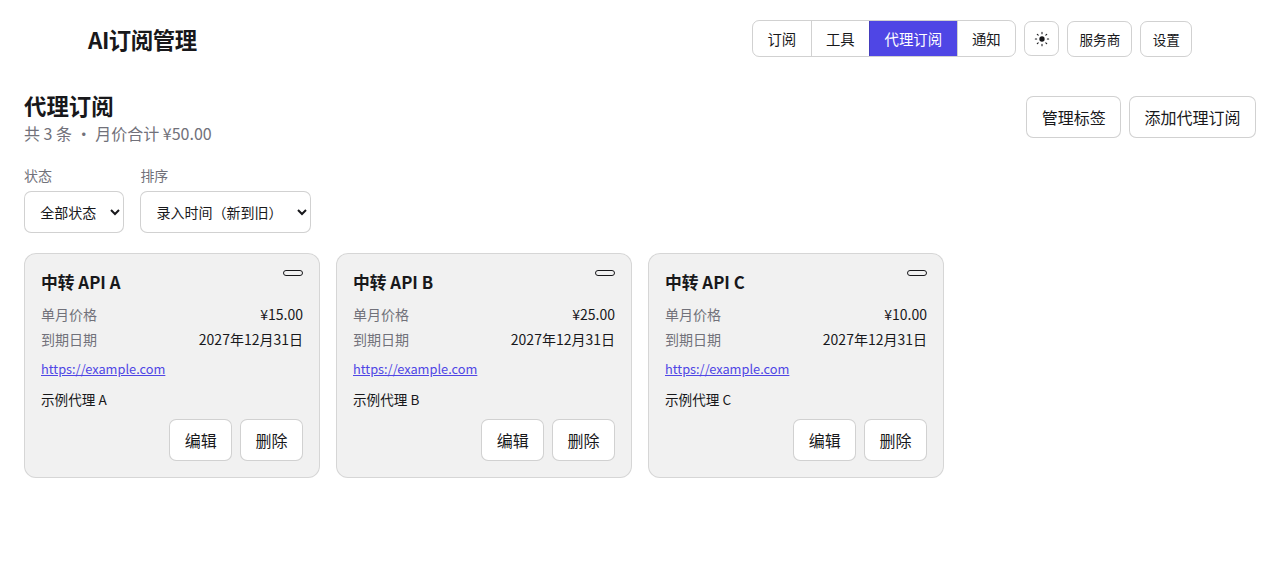
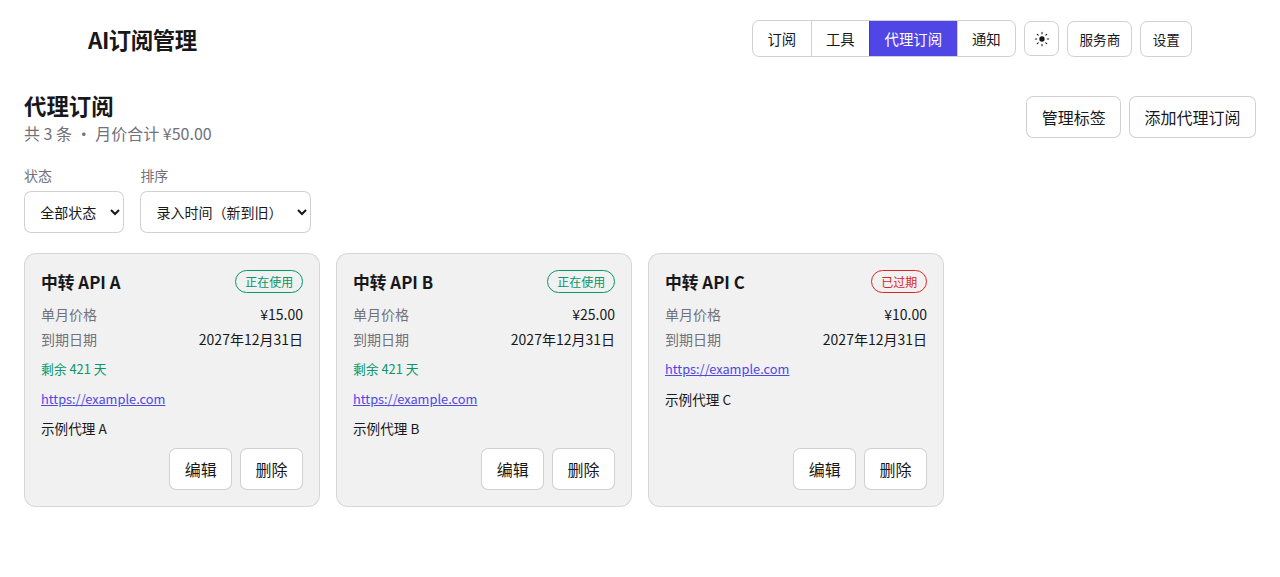
fix: 修复危险按钮文字颜色 + 更新模拟数据截图
- 亮色主题下删除按钮添加白色文字（红底白字）
- 工具页面危险按钮同样修复
- 所有截图使用模拟数据，无真实敏感信息
- 订阅截图显示正确的统计金额和重置计划
- 工具截图显示实际内容（非加载中）
- 代理订阅截图显示正确的状态标签

diff --git a/web/src/styles.css b/web/src/styles.css
@@ -644,6 +644,7 @@ body {
 .form-actions button.danger {
   border-color: #dc2626;
   background: #dc2626;
+  color: #fff;
 }
 
 .category-filter {
@@ -1525,6 +1526,7 @@ body {
 .priority-scenes > button.danger {
   border-color: #dc2626;
   background: #dc2626;
+  color: #fff;
 }
 
 .tools-header button:hover,
